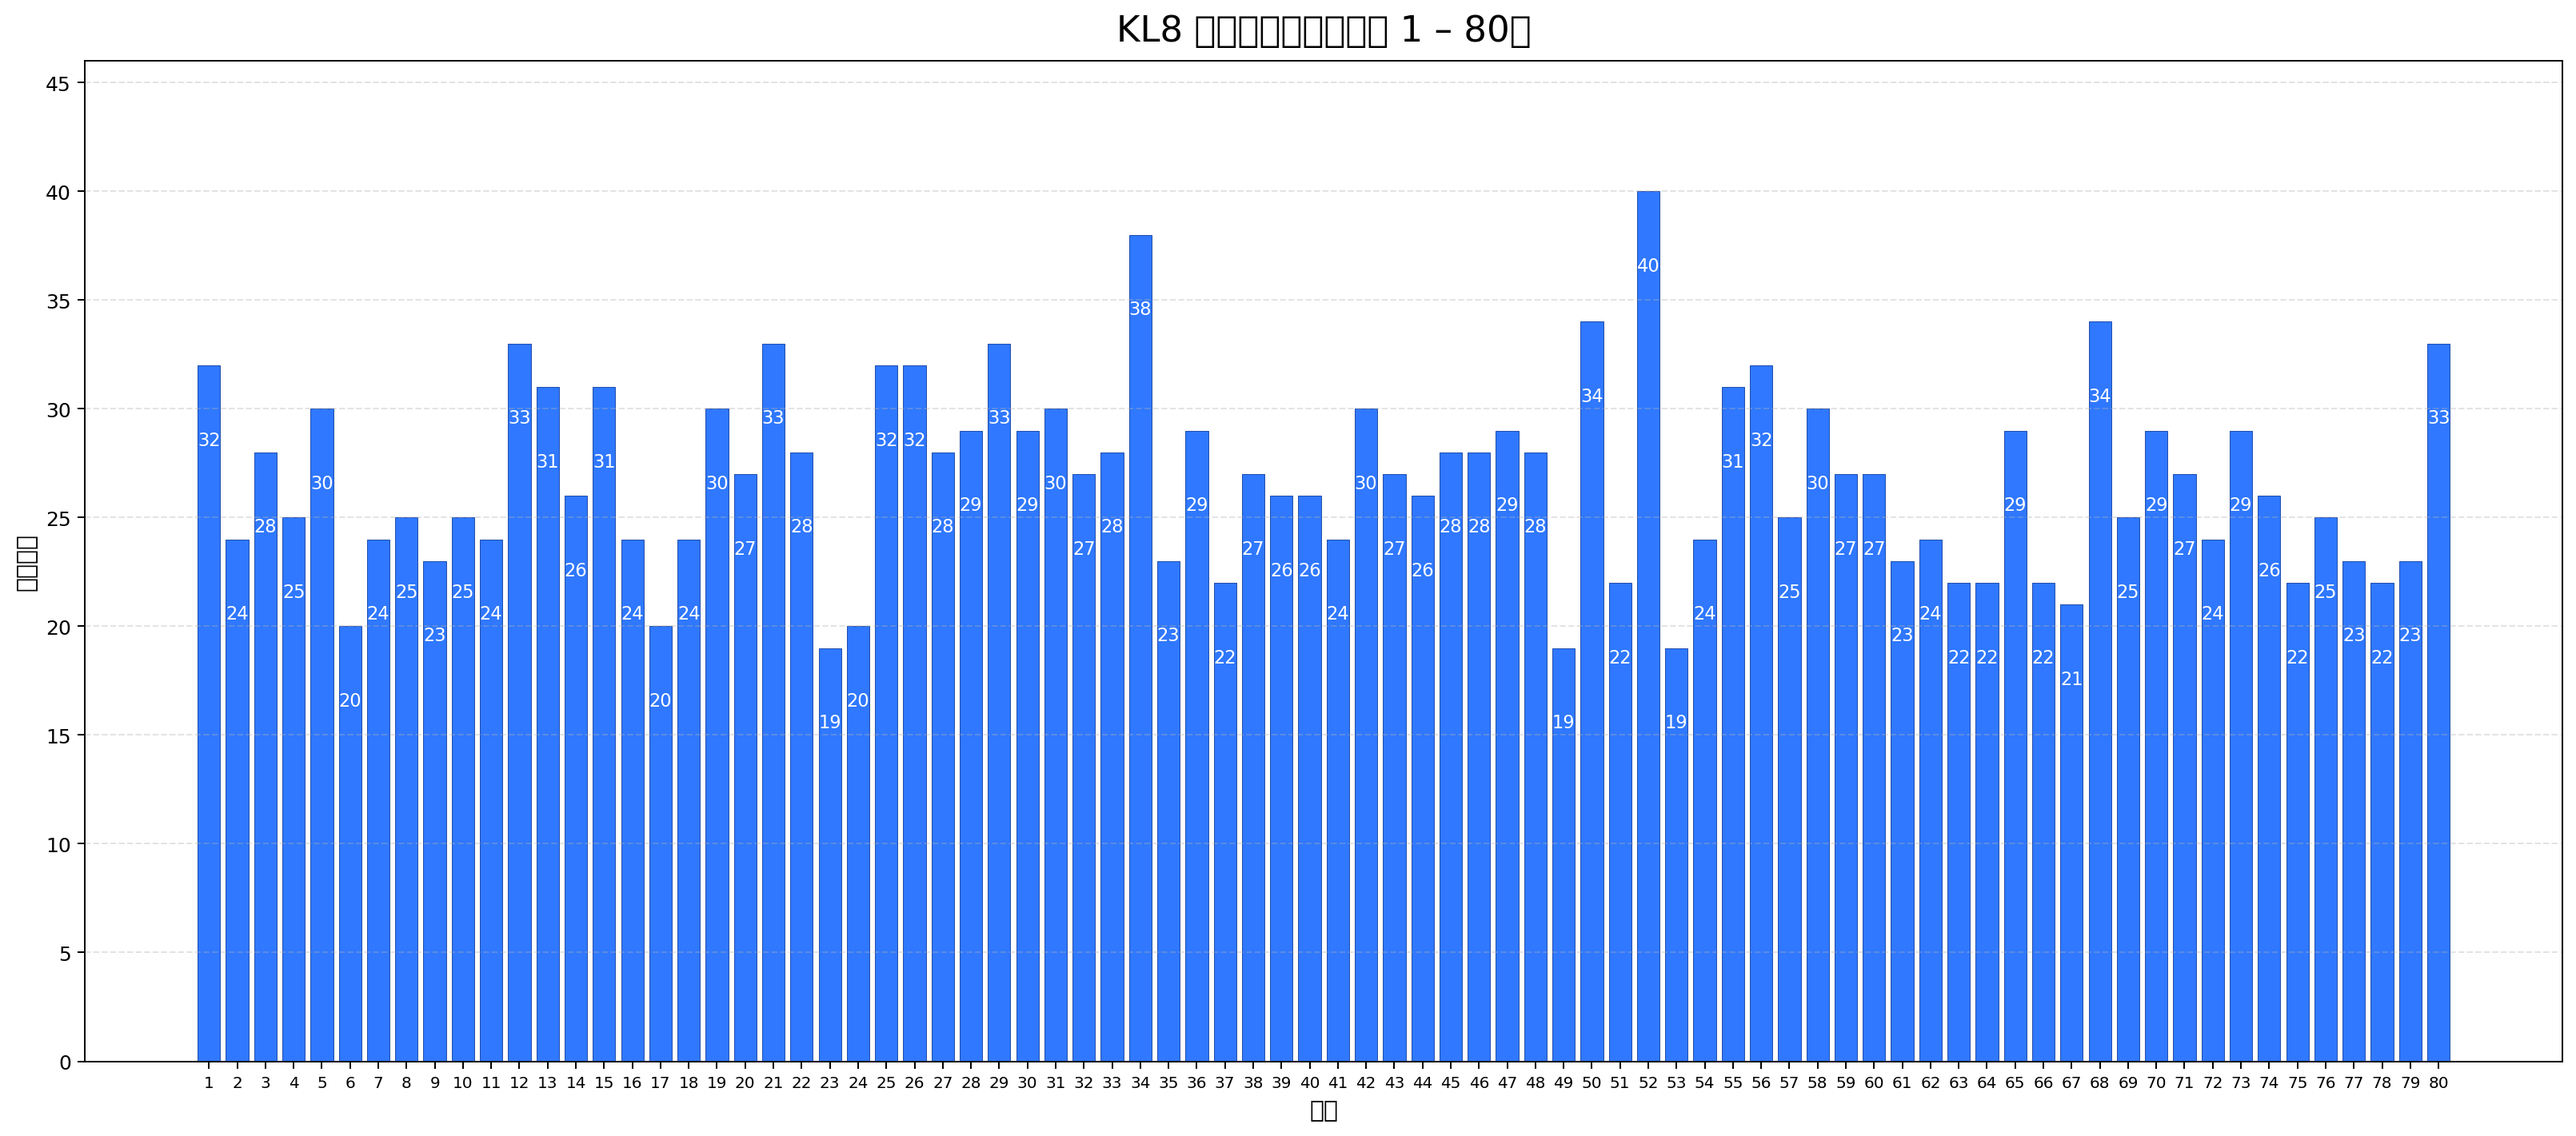
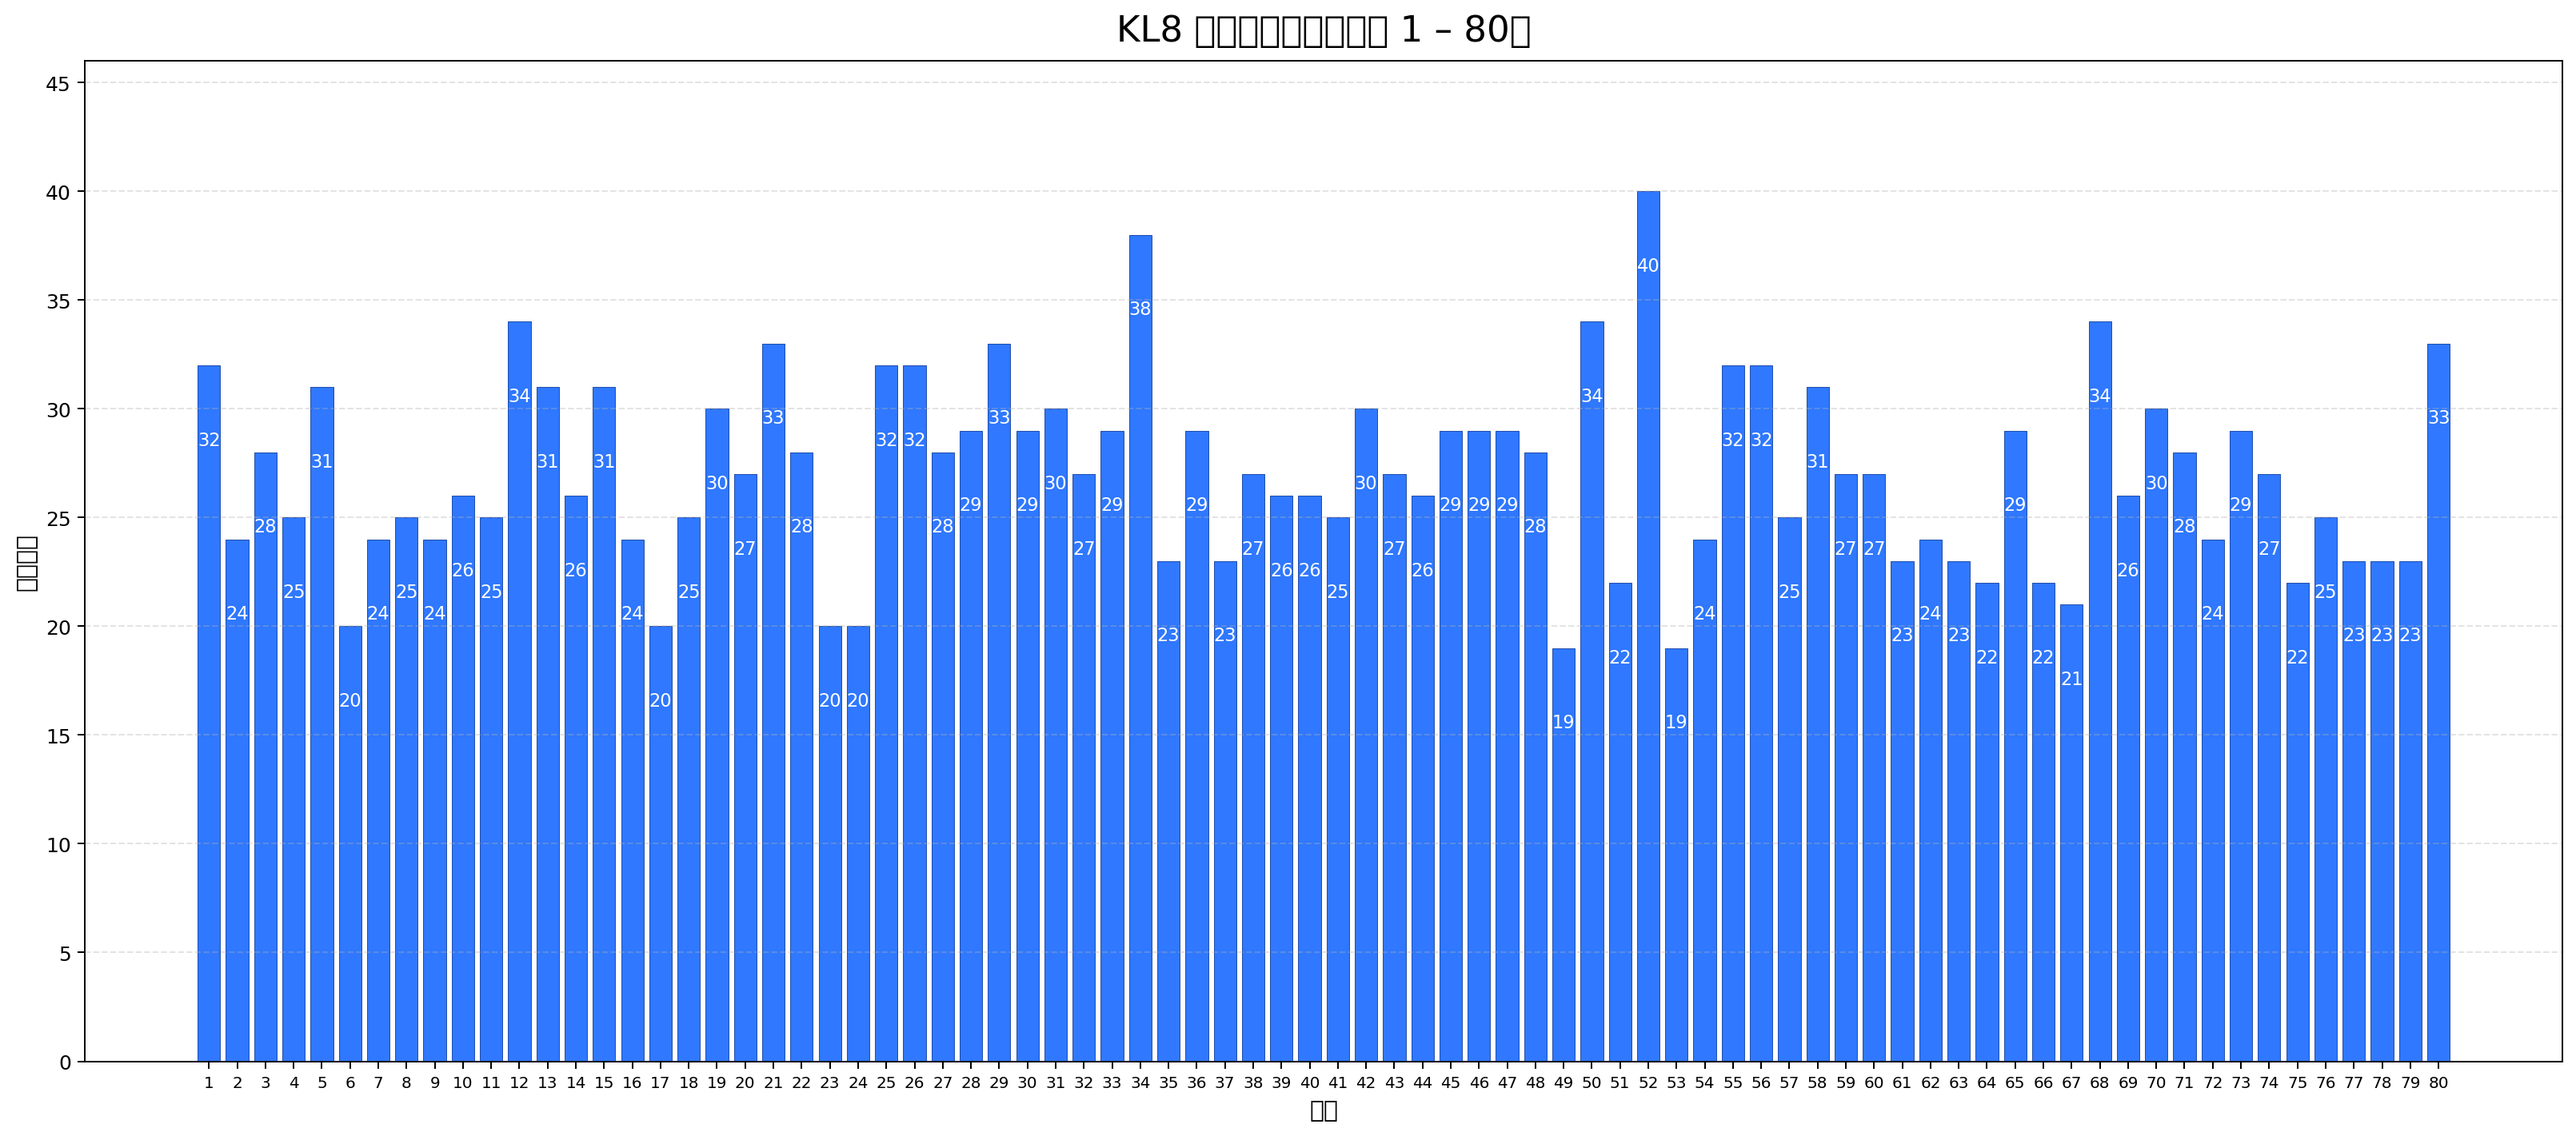
Update lottery data and analysis reports - 2025-08-22 23:15:32 (UTC+8)

diff --git a/reports/kl8_analysis_report.md b/reports/kl8_analysis_report.md
@@ -3,30 +3,30 @@
 > 免责声明：历史数据无法预测未来。本报告仅供技术学习参考，不构成投注建议。
 
 
-**数据期数**: 107 期
+**数据期数**: 108 期
 
-**最近开奖**: 期号 2025223 | 日期 2025-08-21(四) | 号码: 04, 05, 20, 22, 24, 25, 28, 29, 32, 34, 36, 38, 40, 50, 55, 56, 57, 59, 65, 70
+**最近开奖**: 期号 2025224 | 日期 2025-08-22(五) | 号码: 05, 09, 10, 11, 12, 18, 23, 33, 37, 41, 45, 46, 55, 58, 63, 69, 70, 71, 74, 78
 
-**和值均值(样本)**: 803.87 ；**理论期望**: 810
+**和值均值(样本)**: 804.09 ；**理论期望**: 810
 
 
 ## 热号 Top15
 
-52(40), 34(38), 50(34), 68(34), 12(33), 21(33), 29(33), 80(33), 01(32), 25(32), 26(32), 56(32), 13(31), 15(31), 55(31)
+52(40), 34(38), 12(34), 50(34), 68(34), 21(33), 29(33), 80(33), 01(32), 25(32), 26(32), 55(32), 56(32), 05(31), 13(31)
 
 
 ## 冷号 Top15
 
-53(19), 49(19), 23(19), 24(20), 17(20), 06(20), 67(21), 78(22), 75(22), 66(22), 64(22), 63(22), 51(22), 37(22), 79(23)
+53(19), 49(19), 24(20), 23(20), 17(20), 06(20), 67(21), 75(22), 66(22), 64(22), 51(22), 79(23), 78(23), 77(23), 63(23)
 
 
 ## 推荐组合（示例，非投注建议）
 
-- 方案1: 01, 04, 05, 06, 09, 20, 21, 22, 24, 25, 35, 42, 45, 49, 50, 54, 55, 58, 66, 70
-- 方案2: 05, 08, 09, 12, 20, 24, 32, 33, 35, 40, 44, 45, 48, 51, 61, 66, 70, 76, 79, 80
-- 方案3: 05, 09, 16, 21, 22, 24, 28, 32, 36, 37, 39, 46, 52, 56, 63, 67, 68, 73, 79, 80
-- 方案4: 05, 13, 15, 21, 25, 26, 32, 33, 36, 38, 39, 46, 56, 59, 65, 71, 73, 76, 79, 80
-- 方案5: 05, 09, 12, 15, 20, 22, 25, 38, 42, 46, 47, 49, 50, 51, 54, 57, 67, 69, 75, 76
+- 方案1: 01, 04, 05, 06, 09, 20, 21, 22, 23, 24, 35, 42, 45, 49, 51, 54, 55, 58, 67, 71
+- 方案2: 09, 10, 12, 28, 29, 32, 42, 43, 44, 47, 48, 55, 57, 63, 64, 66, 68, 69, 76, 78
+- 方案3: 04, 17, 18, 19, 21, 22, 26, 27, 33, 36, 43, 49, 50, 55, 60, 67, 69, 71, 74, 80
+- 方案4: 05, 08, 09, 11, 18, 22, 33, 34, 36, 41, 45, 47, 48, 53, 63, 68, 71, 76, 79, 80
+- 方案5: 01, 04, 07, 09, 10, 13, 25, 26, 38, 41, 43, 56, 57, 59, 61, 65, 69, 70, 74, 76
 
 ---
 

diff --git a/reports/kl8_profit_plan.md b/reports/kl8_profit_plan.md
@@ -4,16 +4,16 @@
 
 - 总预算：¥22.00 ； 单注价格：¥2.00 ； 计划总注数：11
 
-- 最近开奖：期号 2025223 | 日期 2025-08-21(四) | 号码：04, 05, 20, 22, 24, 25, 28, 29, 32, 34, 36, 38, 40, 50, 55, 56, 57, 59, 65, 70
+- 最近开奖：期号 2025224 | 日期 2025-08-22(五) | 号码：05, 09, 10, 11, 12, 18, 23, 33, 37, 41, 45, 46, 55, 58, 63, 69, 70, 71, 74, 78
 
 
 ## 推荐组合与资金分配
 
-- 方案01 | 分数 0.305637 | 注数   2 | 金额 ¥4.00 | 号码：01, 04, 05, 06, 09, 20, 21, 22, 24, 25, 35, 42, 45, 49, 50, 54, 55, 58, 66, 70
-- 方案02 | 分数 0.260523 | 注数   1 | 金额 ¥2.00 | 号码：05, 08, 09, 12, 20, 24, 32, 33, 35, 40, 44, 45, 48, 51, 61, 66, 70, 76, 79, 80
-- 方案03 | 分数 0.313912 | 注数   2 | 金额 ¥4.00 | 号码：05, 09, 16, 21, 22, 24, 28, 32, 36, 37, 39, 46, 52, 56, 63, 67, 68, 73, 79, 80
-- 方案04 | 分数 0.32091 | 注数   3 | 金额 ¥6.00 | 号码：05, 13, 15, 21, 25, 26, 32, 33, 36, 38, 39, 46, 56, 59, 65, 71, 73, 76, 79, 80
-- 方案05 | 分数 0.328661 | 注数   3 | 金额 ¥6.00 | 号码：05, 09, 12, 15, 20, 22, 25, 38, 42, 46, 47, 49, 50, 51, 54, 57, 67, 69, 75, 76
+- 方案01 | 分数 0.276168 | 注数   2 | 金额 ¥4.00 | 号码：01, 04, 05, 06, 09, 20, 21, 22, 23, 24, 35, 42, 45, 49, 51, 54, 55, 58, 67, 71
+- 方案02 | 分数 0.281214 | 注数   2 | 金额 ¥4.00 | 号码：09, 10, 12, 28, 29, 32, 42, 43, 44, 47, 48, 55, 57, 63, 64, 66, 68, 69, 76, 78
+- 方案03 | 分数 0.292721 | 注数   2 | 金额 ¥4.00 | 号码：04, 17, 18, 19, 21, 22, 26, 27, 33, 36, 43, 49, 50, 55, 60, 67, 69, 71, 74, 80
+- 方案04 | 分数 0.313142 | 注数   3 | 金额 ¥6.00 | 号码：05, 08, 09, 11, 18, 22, 33, 34, 36, 41, 45, 47, 48, 53, 63, 68, 71, 76, 79, 80
+- 方案05 | 分数 0.309347 | 注数   2 | 金额 ¥4.00 | 号码：01, 04, 07, 09, 10, 13, 25, 26, 38, 41, 43, 56, 57, 59, 61, 65, 69, 70, 74, 76
 
 **合计**：¥22.00
 

diff --git a/reports/color_ball_analysis_report.md b/reports/color_ball_analysis_report.md
@@ -1,7 +1,7 @@
 # 🎯 双色球数据分析报告
 
 ## 📊 报告信息
-- **生成时间**: 2025年08月21日 23:16:19 (UTC+8)
+- **生成时间**: 2025年08月22日 23:15:23 (UTC+8)
 - **数据期数**: 共 1903 期
 - **下一期开奖日(按周)**: 周日
 - **最新期号**: 2025096
@@ -239,6 +239,6 @@
 
 ---
 
-*报告生成时间: 2025年08月21日 23:16:19 (UTC+8)*  
+*报告生成时间: 2025年08月22日 23:15:23 (UTC+8)*  
 *数据来源: 中国福利彩票官方网站*  
 *仅供学习研究使用，请理性购彩*

diff --git a/reports/double_color_balls_profits.md b/reports/double_color_balls_profits.md
@@ -5,7 +5,7 @@
 
 **⚠ 以下推荐号码基于历史统计分析，仅供参考，不保证中奖！**
 
-### 双色球推荐 (更新时间: 2025年08月21日 23:16:25)
+### 双色球推荐 (更新时间: 2025年08月22日 23:15:29)
 
 **推荐 1** (ML低熵): `02 06 14 15 17 31` + `15`  
 *LSTM+ARIMA+MonteCarlo 低熵组合 | 3奇3偶 | 和值:85 | 跨度:29*
@@ -23,6 +23,7 @@
 *LSTM+ARIMA+MonteCarlo 低熵组合 | 4奇2偶 | 和值:118 | 跨度:25*
 
 <!-- END:recommendations -->
+
 
 
 
